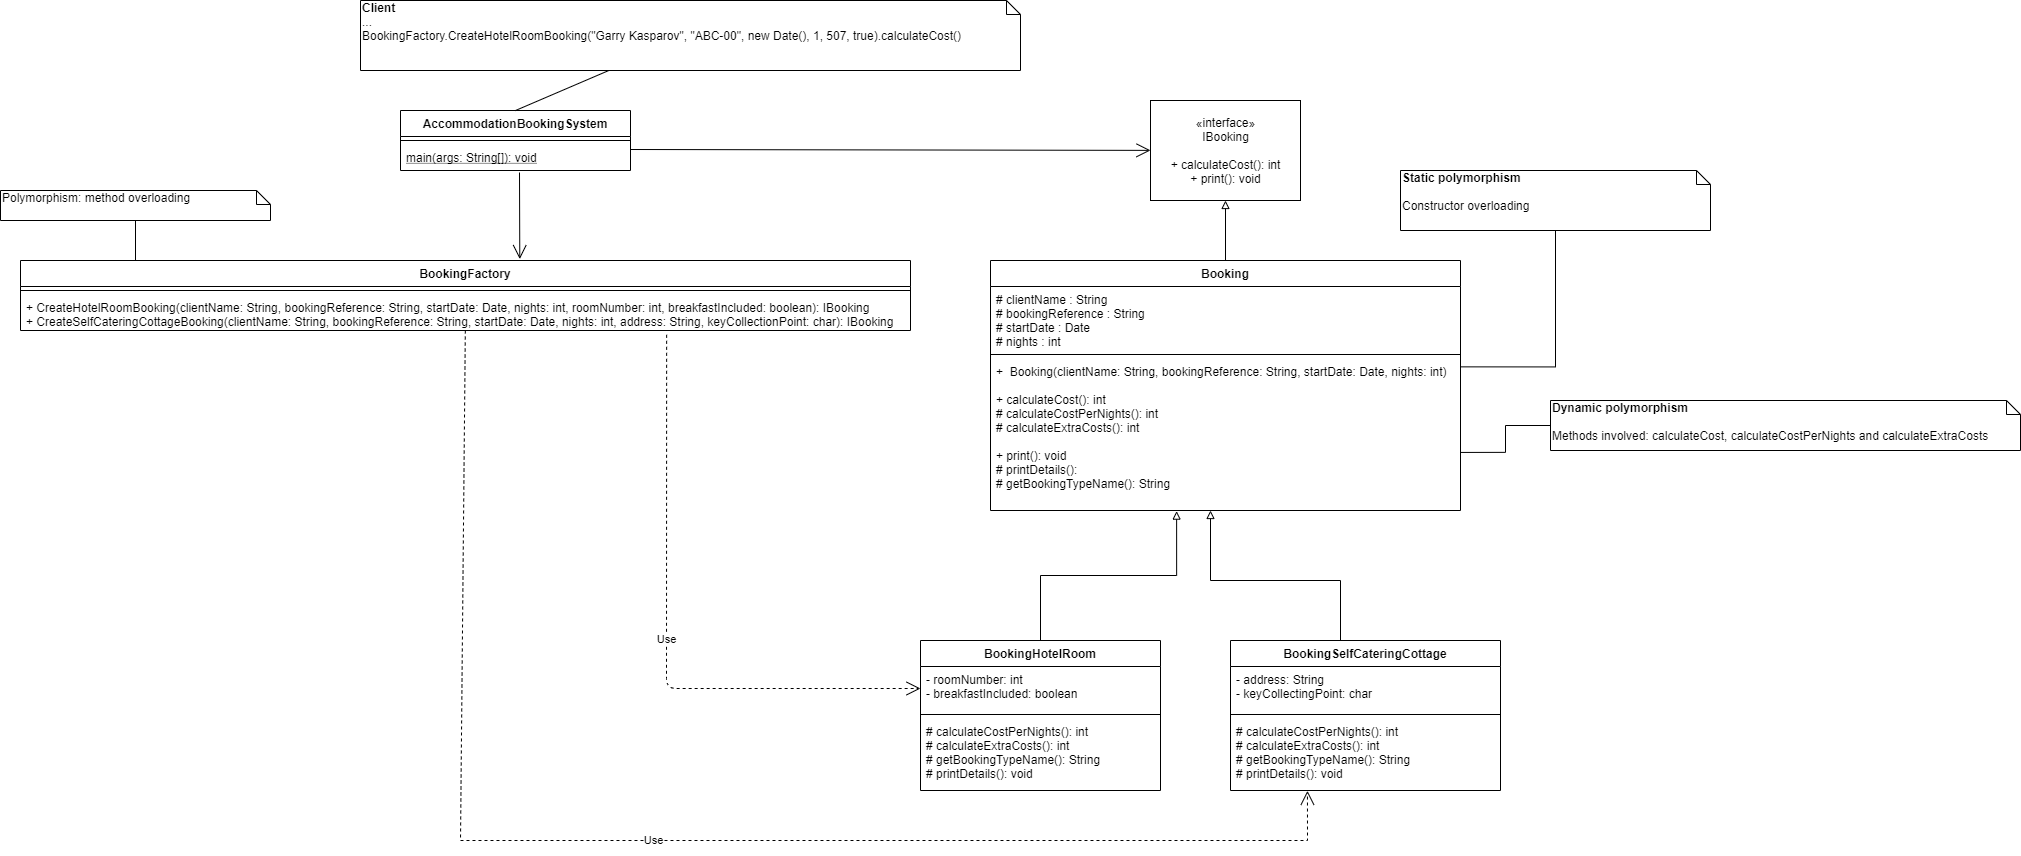
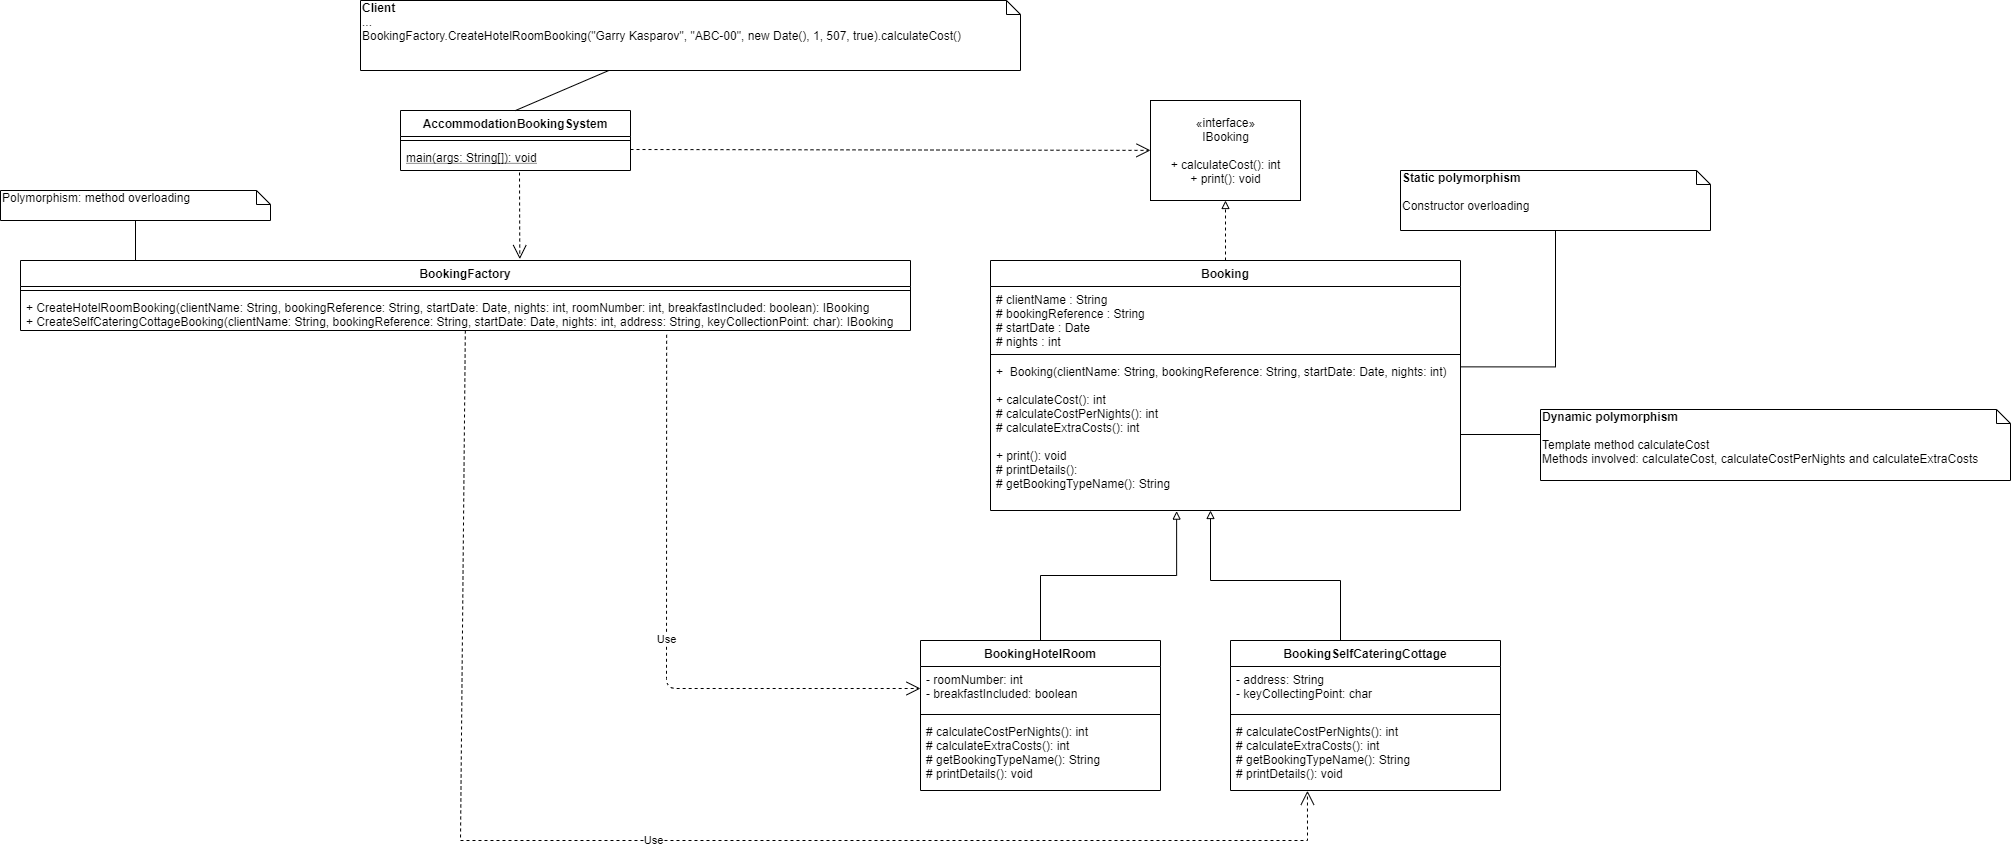
updating class diagram and adding folders to make the file structure more clear.

diff --git a/src/accommodationbookingsystem/UI/JFrameMain.java b/src/accommodationbookingsystem/UI/JFrameMain.java
@@ -3,8 +3,10 @@
  * To change this template file, choose Tools | Templates
  * and open the template in the editor.
  */
-package accommodationbookingsystem;
+package accommodationbookingsystem.UI;
 
+import accommodationbookingsystem.CustomOutputStream;
+import accommodationbookingsystem.UIMediator;
 import java.io.PrintStream;
 import java.util.Calendar;
 import java.util.Date;
@@ -15,7 +17,7 @@ import javax.swing.JOptionPane;
  * @author Maximiliano Herrera
  */
 public class JFrameMain extends javax.swing.JFrame {
-    
+
     private final UIMediator mediator;
 
     /**
@@ -25,13 +27,13 @@ public class JFrameMain extends javax.swing.JFrame {
         initComponents();
         PrintStream printStream = new PrintStream(new CustomOutputStream(jTextAreaOutput));
         System.setOut(printStream);
-        
+
         mediator = new UIMediator(this);
         jComboBoxBookingType.addItem("Hotel room");
         jComboBoxBookingType.addItem("Self catering cottage");
-        
+
         mediator.selectBooking("Hotel room");
-        this.resetControlValues();        
+        this.resetControlValues();
     }
 
     /**
@@ -164,22 +166,21 @@ public class JFrameMain extends javax.swing.JFrame {
                 .addGroup(layout.createParallelGroup(javax.swing.GroupLayout.Alignment.LEADING)
                     .addGroup(layout.createSequentialGroup()
                         .addGroup(layout.createParallelGroup(javax.swing.GroupLayout.Alignment.LEADING, false)
-                            .addGroup(layout.createParallelGroup(javax.swing.GroupLayout.Alignment.LEADING, false)
-                                .addGroup(layout.createSequentialGroup()
-                                    .addComponent(jLabel6)
-                                    .addPreferredGap(javax.swing.LayoutStyle.ComponentPlacement.RELATED)
-                                    .addComponent(jTextFieldRoomNumber))
-                                .addGroup(layout.createSequentialGroup()
-                                    .addGroup(layout.createParallelGroup(javax.swing.GroupLayout.Alignment.LEADING)
-                                        .addComponent(jLabel4)
-                                        .addComponent(jLabel5))
-                                    .addGroup(layout.createParallelGroup(javax.swing.GroupLayout.Alignment.LEADING)
-                                        .addGroup(layout.createSequentialGroup()
-                                            .addGap(28, 28, 28)
-                                            .addComponent(jTextFieldNights, javax.swing.GroupLayout.PREFERRED_SIZE, 145, javax.swing.GroupLayout.PREFERRED_SIZE))
-                                        .addGroup(layout.createSequentialGroup()
-                                            .addGap(18, 18, 18)
-                                            .addComponent(dateChooserCombo1, javax.swing.GroupLayout.PREFERRED_SIZE, 155, javax.swing.GroupLayout.PREFERRED_SIZE)))))
+                            .addGroup(layout.createSequentialGroup()
+                                .addComponent(jLabel6)
+                                .addPreferredGap(javax.swing.LayoutStyle.ComponentPlacement.RELATED)
+                                .addComponent(jTextFieldRoomNumber))
+                            .addGroup(layout.createSequentialGroup()
+                                .addGroup(layout.createParallelGroup(javax.swing.GroupLayout.Alignment.LEADING)
+                                    .addComponent(jLabel4)
+                                    .addComponent(jLabel5))
+                                .addGroup(layout.createParallelGroup(javax.swing.GroupLayout.Alignment.LEADING)
+                                    .addGroup(layout.createSequentialGroup()
+                                        .addGap(28, 28, 28)
+                                        .addComponent(jTextFieldNights, javax.swing.GroupLayout.PREFERRED_SIZE, 145, javax.swing.GroupLayout.PREFERRED_SIZE))
+                                    .addGroup(layout.createSequentialGroup()
+                                        .addGap(18, 18, 18)
+                                        .addComponent(dateChooserCombo1, javax.swing.GroupLayout.PREFERRED_SIZE, 155, javax.swing.GroupLayout.PREFERRED_SIZE))))
                             .addComponent(jCheckBoxBreakfast)
                             .addGroup(layout.createSequentialGroup()
                                 .addGroup(layout.createParallelGroup(javax.swing.GroupLayout.Alignment.LEADING)
@@ -286,7 +287,7 @@ public class JFrameMain extends javax.swing.JFrame {
 
     private void actionPerformedComboBoxBookingType(java.awt.event.ActionEvent evt) {//GEN-FIRST:event_actionPerformedComboBoxBookingType
         Object item = jComboBoxBookingType.getSelectedItem();
-        
+
         mediator.selectBooking(item.toString());
     }//GEN-LAST:event_actionPerformedComboBoxBookingType
 
@@ -336,7 +337,7 @@ public class JFrameMain extends javax.swing.JFrame {
         /* Create and display the form */
         java.awt.EventQueue.invokeLater(new Runnable() {
             public void run() {
-                
+
                 new JFrameMain().setVisible(true);
             }
         });
@@ -373,47 +374,47 @@ public class JFrameMain extends javax.swing.JFrame {
     public String getClientName() {
         return jTextFieldClientName.getText();
     }
-    
+
     public String getBookingType() {
         return jComboBoxBookingType.getSelectedItem().toString();
     }
-    
+
     public String getBookingReference() {
         return jTextFieldBookingReference.getText();
     }
-    
+
     public Date getStartDate() {
         return dateChooserCombo1.getSelectedDate().getTime();
     }
-    
+
     public int getNights() {
         return Integer.parseInt(jTextFieldNights.getText());
     }
-    
+
     public int getRoomNumber() {
         return Integer.parseInt(jTextFieldRoomNumber.getText());
     }
-    
+
     public boolean getBreakfastIncluded() {
         return jCheckBoxBreakfast.isSelected();
     }
-    
+
     public String getAddress() {
         return jTextFieldAddress.getText();
     }
-    
+
     public Character getKeyCollectingPoint() {
         return jTextFieldKeyCollectingPoint.getText().charAt(0);
     }
-    
+
     public void resetControlValues() {
         jComboBoxBookingType.setSelectedIndex(0);
         jTextFieldClientName.setText("");
         jTextFieldBookingReference.setText("");
-        
+
         Calendar c = Calendar.getInstance();
         c.setTime(new Date());
-        
+
         dateChooserCombo1.setSelectedDate(c);
         jTextFieldNights.setText("");
         jTextFieldRoomNumber.setText("0");
@@ -422,28 +423,28 @@ public class JFrameMain extends javax.swing.JFrame {
         jTextFieldKeyCollectingPoint.setText("");
         jTextAreaOutput.setText("");
     }
-    
-    void setEnabledAddress(boolean enabled) {
+
+    public void setEnabledAddress(boolean enabled) {
         jTextFieldAddress.setEnabled(enabled);
     }
-    
-    void setEnabledRoomNumber(boolean enabled) {
+
+    public void setEnabledRoomNumber(boolean enabled) {
         jTextFieldRoomNumber.setEnabled(enabled);
     }
-    
-    void setBreakfastIncluded(boolean enabled) {
+
+    public void setBreakfastIncluded(boolean enabled) {
         jCheckBoxBreakfast.setEnabled(enabled);
     }
-    
-    void setEnabledKeyCollectionPoint(boolean enabled) {
+
+    public void setEnabledKeyCollectionPoint(boolean enabled) {
         jTextFieldKeyCollectingPoint.setEnabled(enabled);
     }
-    
-    void showMessage(String message) {
+
+    public void showMessage(String message) {
         JOptionPane.showMessageDialog(this, message);
     }
-    
-    void cleanOutputTextArea() {
+
+    public void cleanOutputTextArea() {
         jTextAreaOutput.setText("");
     }
 }

diff --git a/src/accommodationbookingsystem/UIMediator.java b/src/accommodationbookingsystem/UIMediator.java
@@ -5,6 +5,8 @@
  */
 package accommodationbookingsystem;
 
+import accommodationbookingsystem.Bookings.IBooking;
+import accommodationbookingsystem.UI.JFrameMain;
 import java.util.ArrayList;
 import java.util.Date;
 
@@ -17,11 +19,11 @@ public class UIMediator {
     private final JFrameMain mainFrame;
     private final ArrayList<IBooking> bookings = new ArrayList<>();
 
-    UIMediator(JFrameMain main) {
+    public UIMediator(JFrameMain main) {
         mainFrame = main;
     }
 
-    void addBooking() {
+    public void addBooking() {
         IBooking booking = createBooking();
         bookings.add(booking);
 
@@ -29,12 +31,11 @@ public class UIMediator {
         mainFrame.resetControlValues();
     }
 
-    void cancel() {
+    public void cancel() {
         mainFrame.resetControlValues();
     }
 
-    void printAllBookings() 
-    {
+    public void printAllBookings() {
         mainFrame.cleanOutputTextArea();
         bookings.forEach((booking) -> {
             booking.print();
@@ -42,17 +43,17 @@ public class UIMediator {
         });
     }
 
-    void calculateCost() {
+    public void calculateCost() {
         IBooking booking = createBooking();
 
         mainFrame.showMessage("Cost: " + booking.calculateCost());
     }
 
-    void cleanBookings() {
+    public void cleanBookings() {
         bookings.clear();
     }
 
-    void selectBooking(String bookingType) {
+    public void selectBooking(String bookingType) {
         if (bookingType == "Hotel room") {
             mainFrame.setEnabledRoomNumber(true);
             mainFrame.setBreakfastIncluded(true);

diff --git a/test/BookingUnitTests.java b/test/BookingUnitTests.java
@@ -4,10 +4,10 @@
  * and open the template in the editor.
  */
 
-import accommodationbookingsystem.Booking;
-import accommodationbookingsystem.BookingHotelRoom;
-import accommodationbookingsystem.BookingSelfCateringCottage;
-import accommodationbookingsystem.IBooking;
+import accommodationbookingsystem.Bookings.Booking;
+import accommodationbookingsystem.Bookings.BookingHotelRoom;
+import accommodationbookingsystem.Bookings.BookingSelfCateringCottage;
+import accommodationbookingsystem.Bookings.IBooking;
 import java.util.Date;
 import static org.hamcrest.CoreMatchers.is;
 import org.junit.After;

diff --git a/src/accommodationbookingsystem/StartingPoint/AccommodationBookingSystem.java b/src/accommodationbookingsystem/StartingPoint/AccommodationBookingSystem.java
@@ -3,8 +3,11 @@
  * To change this template file, choose Tools | Templates
  * and open the template in the editor.
  */
-package accommodationbookingsystem;
+package accommodationbookingsystem.StartingPoint;
 
+import accommodationbookingsystem.BookingFactory;
+import accommodationbookingsystem.Bookings.IBooking;
+import accommodationbookingsystem.UI.JFrameMain;
 import java.util.ArrayList;
 import java.util.Date;
 import javax.swing.JOptionPane;

diff --git a/src/accommodationbookingsystem/BookingFactory.java b/src/accommodationbookingsystem/BookingFactory.java
@@ -5,6 +5,9 @@
  */
 package accommodationbookingsystem;
 
+import accommodationbookingsystem.Bookings.BookingSelfCateringCottage;
+import accommodationbookingsystem.Bookings.BookingHotelRoom;
+import accommodationbookingsystem.Bookings.IBooking;
 import java.util.Date;
 
 /**

diff --git a/src/accommodationbookingsystem/Bookings/Booking.java b/src/accommodationbookingsystem/Bookings/Booking.java
@@ -3,7 +3,7 @@
  * To change this template file, choose Tools | Templates
  * and open the template in the editor.
  */
-package accommodationbookingsystem;
+package accommodationbookingsystem.Bookings;
 
 import java.text.SimpleDateFormat;
 import java.util.Date;

diff --git a/src/accommodationbookingsystem/Bookings/BookingHotelRoom.java b/src/accommodationbookingsystem/Bookings/BookingHotelRoom.java
@@ -3,7 +3,7 @@
  * To change this template file, choose Tools | Templates
  * and open the template in the editor.
  */
-package accommodationbookingsystem;
+package accommodationbookingsystem.Bookings;
 
 import java.util.Date;
 

diff --git a/src/accommodationbookingsystem/Bookings/BookingSelfCateringCottage.java b/src/accommodationbookingsystem/Bookings/BookingSelfCateringCottage.java
@@ -3,7 +3,7 @@
  * To change this template file, choose Tools | Templates
  * and open the template in the editor.
  */
-package accommodationbookingsystem;
+package accommodationbookingsystem.Bookings;
 
 import java.util.Date;
 

diff --git a/src/accommodationbookingsystem/Bookings/IBooking.java b/src/accommodationbookingsystem/Bookings/IBooking.java
@@ -3,7 +3,7 @@
  * To change this template file, choose Tools | Templates
  * and open the template in the editor.
  */
-package accommodationbookingsystem;
+package accommodationbookingsystem.Bookings;
 
 /**
  *
